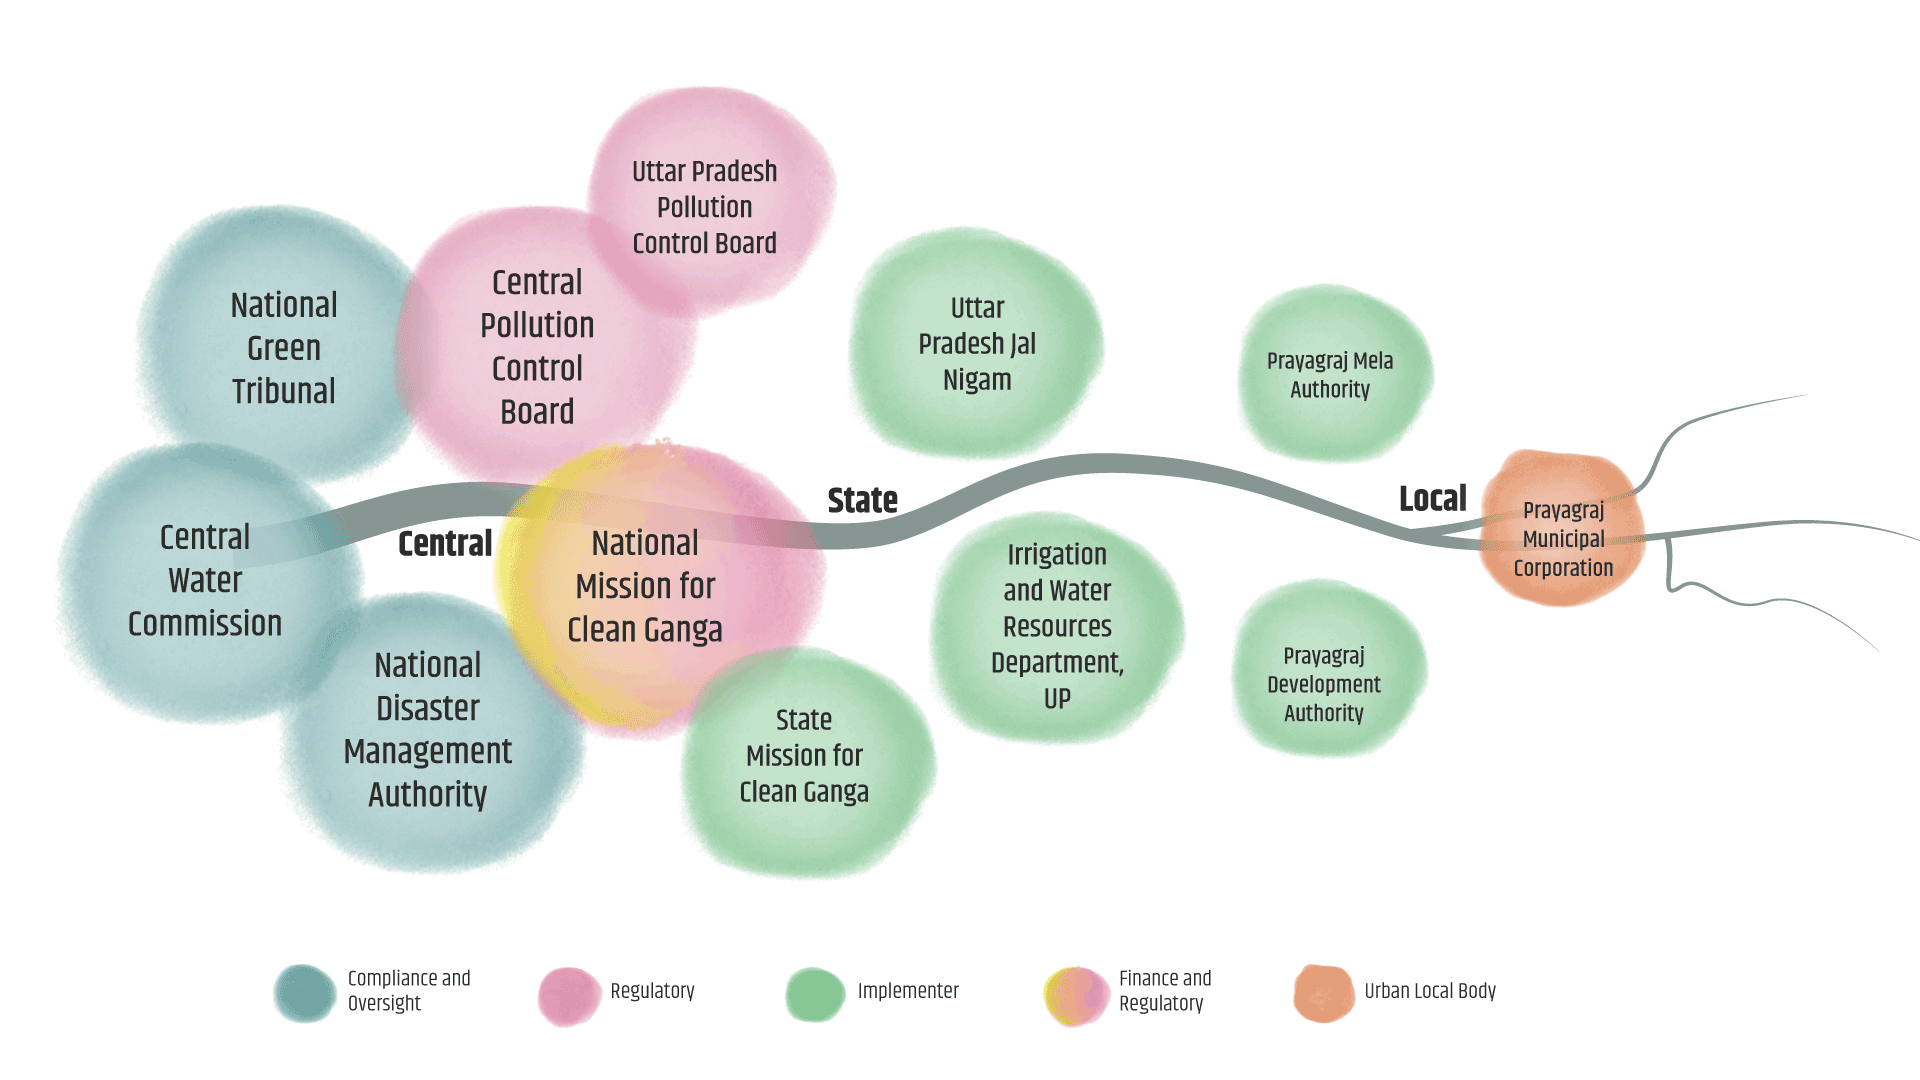
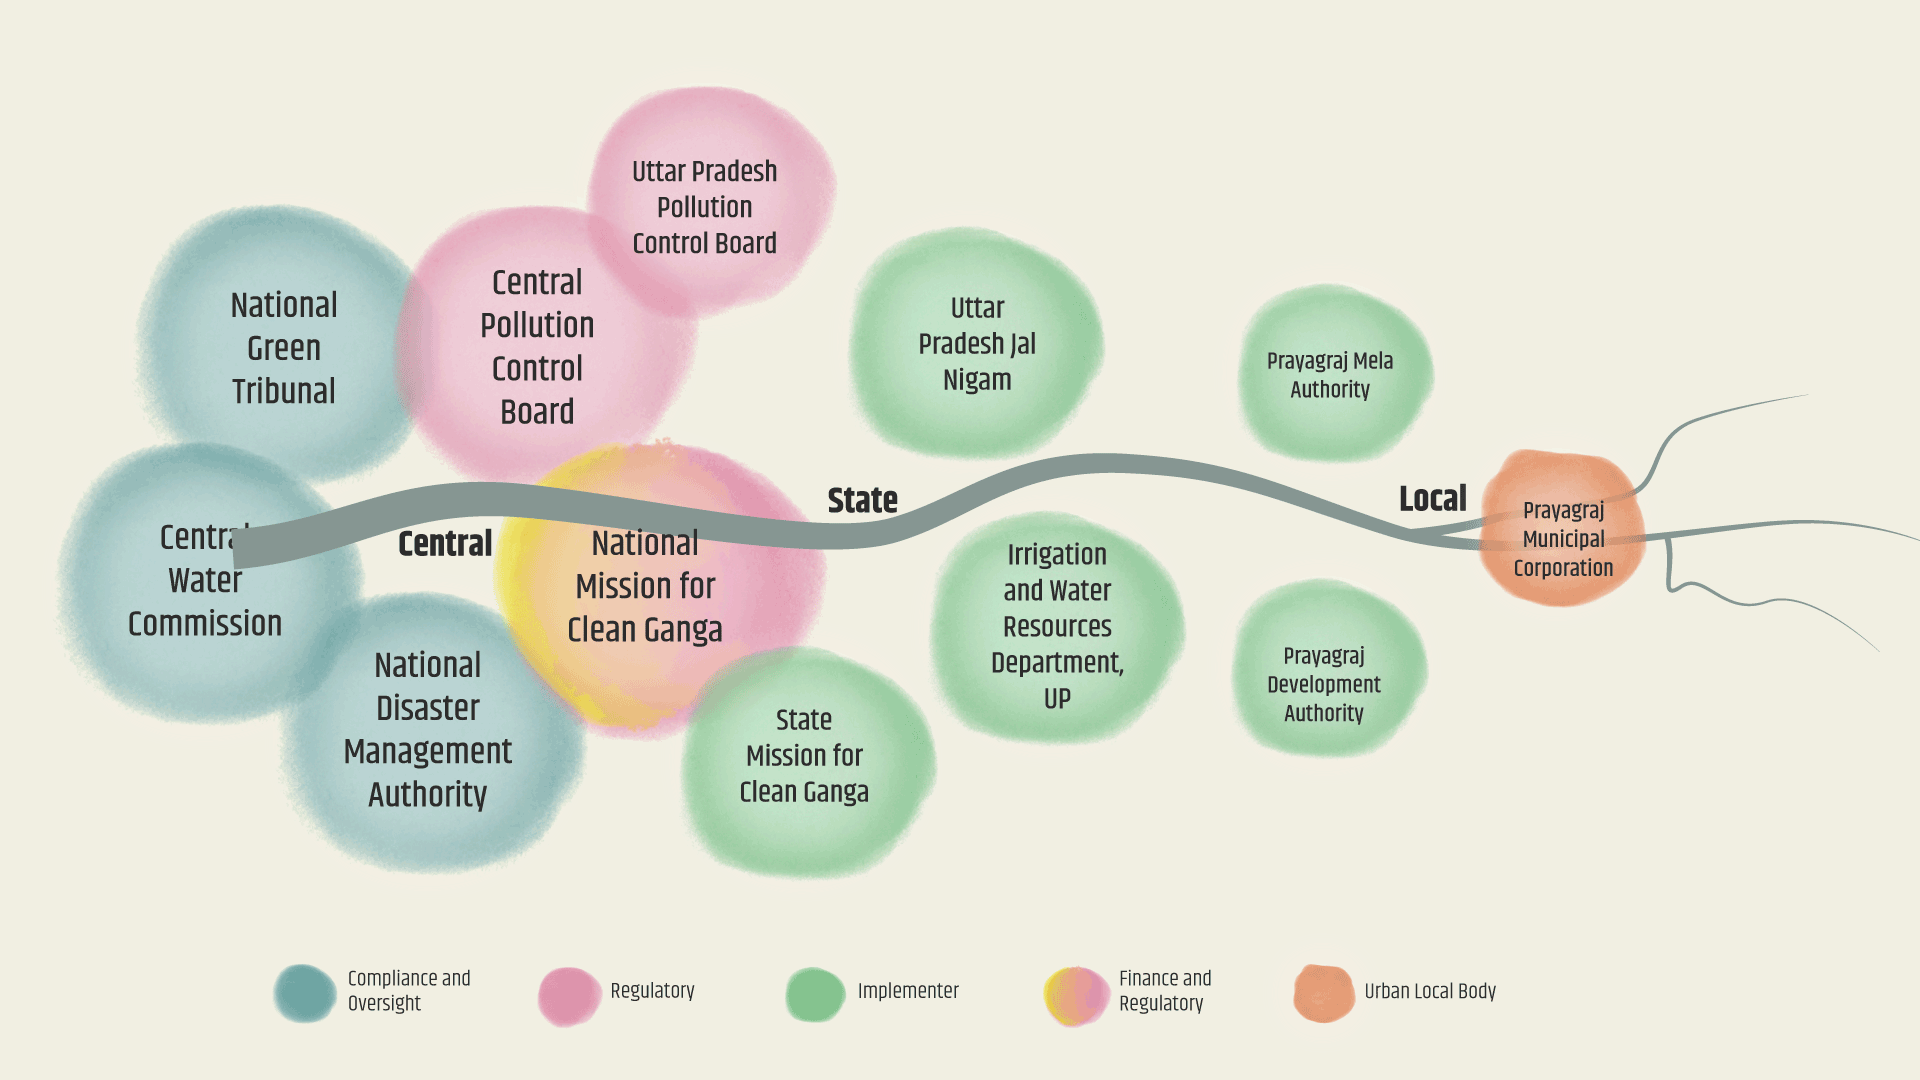
updated institutional framework for mobile

diff --git a/src/lib/power.svelte b/src/lib/power.svelte
@@ -97,21 +97,35 @@
     Permeating Power: Spiritual and Spatial (River-Society Intersection)
   </h2>
   <p>
-    The Maha Kumbh involves a diverse array of stakeholders—including institutions, groups, and individuals—who shape ritual practices and mediate interactions between the river and society in both formal and informal settings. In this section, through visual illustrations, we outline:
-
+    The Maha Kumbh involves a diverse array of stakeholders—including
+    institutions, groups, and individuals—who shape ritual practices and mediate
+    interactions between the river and society in both formal and informal
+    settings. In this section, through visual illustrations, we outline:
   </p>
-  <br>
+  <br />
   <ul class="list-disc list-inside">
-  <li><strong>Stakeholders:</strong> The key stakeholders and their interactions.
-</li><br>
-  <li><strong>Spiritual Religious and Economic Relationships:</strong> The  political economy of  large scale human gathering for  spiritual and religious purposes — interactions and transactions between the pilgrims and large and small scale businesses. </li>
-<br>
-<li> <strong>Permeating Power:</strong> The informal hierarchical power structures which influence the pilgrims and their ritual practice.
-</li><br>
-<li><strong>Institutional Framework:</strong> The state institutions across scales —  from the central government to the local bodies responsible for the management of the river water quality during the Kumbh Mela 
-</li>
-
-</ul>
+    <li>
+      <strong>Stakeholders:</strong> The key stakeholders and their interactions.
+    </li>
+    <br />
+    <li>
+      <strong>Spiritual Religious and Economic Relationships:</strong> The political
+      economy of large scale human gathering for spiritual and religious purposes
+      — interactions and transactions between the pilgrims and large and small scale
+      businesses.
+    </li>
+    <br />
+    <li>
+      <strong>Permeating Power:</strong> The informal hierarchical power structures
+      which influence the pilgrims and their ritual practice.
+    </li>
+    <br />
+    <li>
+      <strong>Institutional Framework:</strong> The state institutions across scales
+      — from the central government to the local bodies responsible for the management
+      of the river water quality during the Kumbh Mela
+    </li>
+  </ul>
 </section>
 <!-- ✦ Key stakeholders -->
 <section class="relative col-span-full h-[900vh]">
@@ -124,16 +138,26 @@
         <h5 class="text-xl md:text-3xl lg:text-4xl font-semibold mb-4">
           Stakeholders
         </h5>
-        
-          
-<p class="text-sm md:text-base lg:text-lg">
-  The visual depicts a varied and vast set of stakeholders engaged in the Maha Kumbh. Mahakumbh is not only about the pilgrims but is also known for its huge economic impact. This manifests in various economic and social interactions with varied intensity. The Kumbh Mela displays delicate interactions between rituals and commerce. The interactions are further shaped by various power relations. 
-</p>
-<br>
-<p class="annotation">
-  (Our stakeholder mappings and field observations indicated that Akharas had considerable power to negotiate crucial matters such as in procession planning and land allocation. The interaction between the PMA and Akaharas are indicative of this where the PMA actively consults with the Akahadas in advance in planning of the Mahalumbh. The Akhara leaders, who were elected in their traditional councils, coordinated both intra- and inter-Akhara and made sure that their spatial and ritualistic concerns were protected.)
-</p>
-        
+
+        <p class="text-sm md:text-base lg:text-lg">
+          The visual depicts a varied and vast set of stakeholders engaged in
+          the Maha Kumbh. Mahakumbh is not only about the pilgrims but is also
+          known for its huge economic impact. This manifests in various economic
+          and social interactions with varied intensity. The Kumbh Mela displays
+          delicate interactions between rituals and commerce. The interactions
+          are further shaped by various power relations.
+        </p>
+        <br />
+        <p class="annotation">
+          (Our stakeholder mappings and field observations indicated that
+          Akharas had considerable power to negotiate crucial matters such as in
+          procession planning and land allocation. The interaction between the
+          PMA and Akaharas are indicative of this where the PMA actively
+          consults with the Akahadas in advance in planning of the Mahalumbh.
+          The Akhara leaders, who were elected in their traditional councils,
+          coordinated both intra- and inter-Akhara and made sure that their
+          spatial and ritualistic concerns were protected.)
+        </p>
       </div>
 
       <!-- Illustration & Overlay Container -->
@@ -159,7 +183,8 @@
           class="absolute top-1/4 right-4 md:right-16 w-[80%] md:w-1/2 bg-[#f1efe2bb] backdrop-blur-lg rounded p-6 md:p-8 shadow-lg z-20 transition-opacity duration-500"
           class:opacity-0={!isOverlayAVisible}
           class:opacity-100={isOverlayAVisible}
-        ><h5 class="text-xl mb-2">Akharas</h5>
+        >
+          <h5 class="text-xl mb-2">Akharas</h5>
           <p class="text-base leading-relaxed">{overlayExplainerTexts[0]}</p>
         </div>
 
@@ -176,7 +201,7 @@
           class:opacity-0={!isOverlayBVisible}
           class:opacity-100={isOverlayBVisible}
         >
-        <h5 class="text-xl mb-2">ABAP</h5>
+          <h5 class="text-xl mb-2">Akhil Bharatiya Akhara Parishad</h5>
           <p class="text-base leading-relaxed">{overlayExplainerTexts[1]}</p>
         </div>
 
@@ -193,7 +218,7 @@
           class:opacity-0={!isOverlayCVisible}
           class:opacity-100={isOverlayCVisible}
         >
-          <h5 class="text-xl mb-2">PMA</h5>
+          <h5 class="text-xl mb-2">Prayagraj Mela Authority</h5>
           <p class="text-base leading-relaxed">{overlayExplainerTexts[2]}</p>
         </div>
 
@@ -209,11 +234,12 @@
           class="absolute top-24 left-12 md:right-24 w-1/3 bg-[#f1efe2bb] backdrop-blur-lg rounded p-6 md:p-8 shadow-lg z-20 fade"
           class:opacity-0={!isOverlayDVisible}
           class:opacity-100={isOverlayDVisible}
-        ><h5 class="text-xl mb-2">Panda Pujaris /Prayagwalas</h5>
+        >
+          <h5 class="text-xl mb-2">Panda Pujaris /Prayagwalas</h5>
           <p class="text-base leading-relaxed">{overlayExplainerTexts[3]}</p>
         </div>
-<!-- Overlay: Fifth -->
-         <img
+        <!-- Overlay: Fifth -->
+        <img
           src={`${base}/Main/Kalpavas.png`}
           alt="Overlay D"
           class="absolute inset-0 w-full h-full object-cover z-10 fade"
@@ -224,12 +250,13 @@
           class="absolute top-24 left-12 md:right-24 w-1/3 bg-[#f1efe2bb] backdrop-blur-lg rounded p-6 md:p-8 shadow-lg z-20 fade"
           class:opacity-0={!isOverlayEVisible}
           class:opacity-100={isOverlayEVisible}
-        ><h5 class="text-xl mb-2">Kalpavas</h5>
+        >
+          <h5 class="text-xl mb-2">Kalpavas</h5>
           <p class="text-base leading-relaxed">{overlayExplainerTexts[4]}</p>
         </div>
 
         <!-- Overlay: Sixth -->
-         <img
+        <img
           src={`${base}/Main/Naga-Sadhu.png`}
           alt="Overlay D"
           class="absolute inset-0 w-full h-full object-cover z-10 fade"
@@ -240,11 +267,12 @@
           class="absolute top-24 left-12 md:right-24 w-1/3 bg-[#f1efe2bb] backdrop-blur-lg rounded p-6 md:p-8 shadow-lg z-20 fade"
           class:opacity-0={!isOverlayFVisible}
           class:opacity-100={isOverlayFVisible}
-        ><h5 class="text-xl mb-2">Naga Sadhus</h5>
+        >
+          <h5 class="text-xl mb-2">Naga Sadhus</h5>
           <p class="text-base leading-relaxed">{overlayExplainerTexts[5]}</p>
         </div>
-<!-- Overlay: Seventh -->
-         <img
+        <!-- Overlay: Seventh -->
+        <img
           src={`${base}/Main/Businesses.png`}
           alt="Overlay D"
           class="absolute inset-0 w-full h-full object-cover z-10 fade"
@@ -255,48 +283,25 @@
           class="absolute top-24 left-12 md:right-24 w-1/3 bg-[#f1efe2bb] backdrop-blur-lg rounded p-6 md:p-8 shadow-lg z-20 fade"
           class:opacity-0={!isOverlayGVisible}
           class:opacity-100={isOverlayGVisible}
-        ><h5 class="text-xl mb-2">Businesses and small vendors</h5>
+        >
+          <h5 class="text-xl mb-2">Businesses and Small Vendors</h5>
           <p class="text-base leading-relaxed">{overlayExplainerTexts[6]}</p>
         </div>
-
       </div>
     </div>
   </div>
 
-
-    <!-- Scroll triggers -->
-    <div
-      bind:this={ATrigger}
-      class="absolute top-[200vh] h-[10vh] w-full"
-    ></div>
-    <div
-      bind:this={BTrigger}
-      class="absolute top-[300vh] h-[10vh] w-full"
-    ></div>
-    <div
-      bind:this={CTrigger}
-      class="absolute top-[400vh] h-[10vh] w-full"
-    ></div>
-    <div
-      bind:this={DTrigger}
-      class="absolute top-[500vh] h-[10vh] w-full"
-    ></div>
-    <div
-      bind:this={ETrigger}
-      class="absolute top-[600vh] h-[10vh] w-full"
-    ></div>
-    <div
-      bind:this={FTrigger}
-      class="absolute top-[700vh] h-[10vh] w-full"
-    ></div>
-    <div
-      bind:this={GTrigger}
-      class="absolute top-[800vh] h-[10vh] w-full"
-    ></div>
-
+  <!-- Scroll triggers -->
+  <div bind:this={ATrigger} class="absolute top-[200vh] h-[10vh] w-full"></div>
+  <div bind:this={BTrigger} class="absolute top-[300vh] h-[10vh] w-full"></div>
+  <div bind:this={CTrigger} class="absolute top-[400vh] h-[10vh] w-full"></div>
+  <div bind:this={DTrigger} class="absolute top-[500vh] h-[10vh] w-full"></div>
+  <div bind:this={ETrigger} class="absolute top-[600vh] h-[10vh] w-full"></div>
+  <div bind:this={FTrigger} class="absolute top-[700vh] h-[10vh] w-full"></div>
+  <div bind:this={GTrigger} class="absolute top-[800vh] h-[10vh] w-full"></div>
 </section>
 <!-- ✦ Spiritual and economic relationships -->
-<section class="relative col-span-full h-screen">
+<section class="relative col-span-full h-screen bg-[#f1efe2]">
   <div class="sticky top-0 h-screen overflow-hidden z-10">
     <div
       class="flex flex-col lg:flex-row items-center justify-center h-full px-4 md:px-10 gap-8"
@@ -314,10 +319,18 @@
           Spiritual and economic relationships
         </h5>
         <p class="text-sm md:text-base lg:text-lg">
-          The fringes of this organised spiritual-commercial space were inhabited by miniature vendors and spiritual-cultural organisations. Vendors offering Puja-related items, cuisine, Deep Daan lamps, and religious paraphernalia did business informally. The PMA determined whether or not they could do business.
-<br>
-In parallel, cultural and religious organisations organised Satsangs, Kathas, Havans, and other large devotional events. They provided a valuable spiritual add-on, with varied points of interaction for pilgrims, but were once again reliant on PMA's event permissions and land allocation. Here too, a hierarchy emerged: larger, wealthier organisations got better locations and timings, while smaller organisations had less preferred conditions.)
-
+          The fringes of this organised spiritual-commercial space were
+          inhabited by miniature vendors and spiritual-cultural organisations.
+          Vendors offering Puja-related items, cuisine, Deep Daan lamps, and
+          religious paraphernalia did business informally. The PMA determined
+          whether or not they could do business.
+          <br />
+          In parallel, cultural and religious organisations organised Satsangs, Kathas,
+          Havans, and other large devotional events. They provided a valuable spiritual
+          add-on, with varied points of interaction for pilgrims, but were once again
+          reliant on PMA's event permissions and land allocation. Here too, a hierarchy
+          emerged: larger, wealthier organisations got better locations and timings,
+          while smaller organisations had less preferred conditions.)
         </p>
       </div>
     </div>
@@ -337,8 +350,13 @@ In parallel, cultural and religious organisations organised Satsangs, Kathas, Ha
     <p
       class="absolute top-20 left-2/3 transform -translate-x-1/2 text-base text-left px-4 max-w-xl z-20"
     >
-     This visual captures the spiritual and cultural hierarchy that informs ritual practices and shapes informal interactions with devotees and pilgrims. The illustration delineates four levels within this projection of power or influence—beginning with the Akharas at the top, followed by influential spiritual gurus and socio-cultural organisations, then the Pandas and Purohits, and finally culminating in the pilgrims and Kalpavasis, who constitute the base of this hierarchical structure.
-
+      This visual captures the spiritual and cultural hierarchy that informs
+      ritual practices and shapes informal interactions with devotees and
+      pilgrims. The illustration delineates four levels within this projection
+      of power or influence—beginning with the Akharas at the top, followed by
+      influential spiritual gurus and socio-cultural organisations, then the
+      Pandas and Purohits, and finally culminating in the pilgrims and
+      Kalpavasis, who constitute the base of this hierarchical structure.
     </p>
     <!-- Background image -->
     <img
@@ -430,27 +448,40 @@ In parallel, cultural and religious organisations organised Satsangs, Kathas, Ha
     class="absolute top-[500vh] h-[10vh] w-full"
   ></div>
 </section>
-
-<section class="relative col-span-full h-screen">
-  <div class="sticky top-0 h-screen overflow-hidden z-10">
+<!-- ✦ SECTION: Institutional Framework -->
+<section class="relative col-span-full bg-[#f1efe2]">
+  <div class="sticky top-0 z-10 mt-10">
     <div
-      class="flex flex-col lg:flex-row items-center justify-center h-full px-4 md:px-10 gap-8"
+      class="flex flex-col-reverse lg:flex-row items-center justify-center min-h-screen lg:h-screen px-4 md:px-10 gap-8"
     >
       <!-- Left: Image -->
-      <img
-        src={`${base}/Institutional-framework.png`}
-        alt="Background"
-        class="w-full lg:w-2/3 h-auto object-contain mt-10 lg:mt-0"
-      />
+      <picture class="w-full lg:w-2/3">
+        <!-- Mobile -->
+        <source
+          srcset={`${base}/Institutional-Framework-mobile.png`}
+          media="(max-width: 1023px)"
+        />
+        <!-- Desktop -->
+        <img
+          src={`${base}/Institutional-framework.png`}
+          alt="Institutional Framework"
+          class="w-full h-auto object-contain mt-10 lg:mt-0"
+        />
+      </picture>
 
       <!-- Right: Text Content -->
-      <div class="lg:w-1/3 text-left z-20">
+      <div class="lg:w-1/3 text-left z-20 mb-10">
         <h5 class="text-xl md:text-3xl lg:text-4xl font-semibold mb-4">
           Institutional Framework
         </h5>
         <p class="text-sm md:text-base lg:text-lg">
-          At Maha Kumbh 2025, river water quality and sanitation were managed through a multi-tiered institutional framework involving judicial bodies like the NGT, regulatory agencies such as CPCB and UPPCB, and implementing bodies like NMCG, UP Jal Nigam, and the Prayagraj Mela Authority. These institutions coordinated efforts across legal, infrastructural, and administrative levels to balance river water quality compliance.
-
+          At Maha Kumbh 2025, river water quality and sanitation were managed
+          through a multi-tiered institutional framework involving judicial
+          bodies like the NGT, regulatory agencies such as CPCB and UPPCB, and
+          implementing bodies like NMCG, UP Jal Nigam, and the Prayagraj Mela
+          Authority. These institutions coordinated efforts across legal,
+          infrastructural, and administrative levels to balance river water
+          quality compliance.
         </p>
       </div>
     </div>
